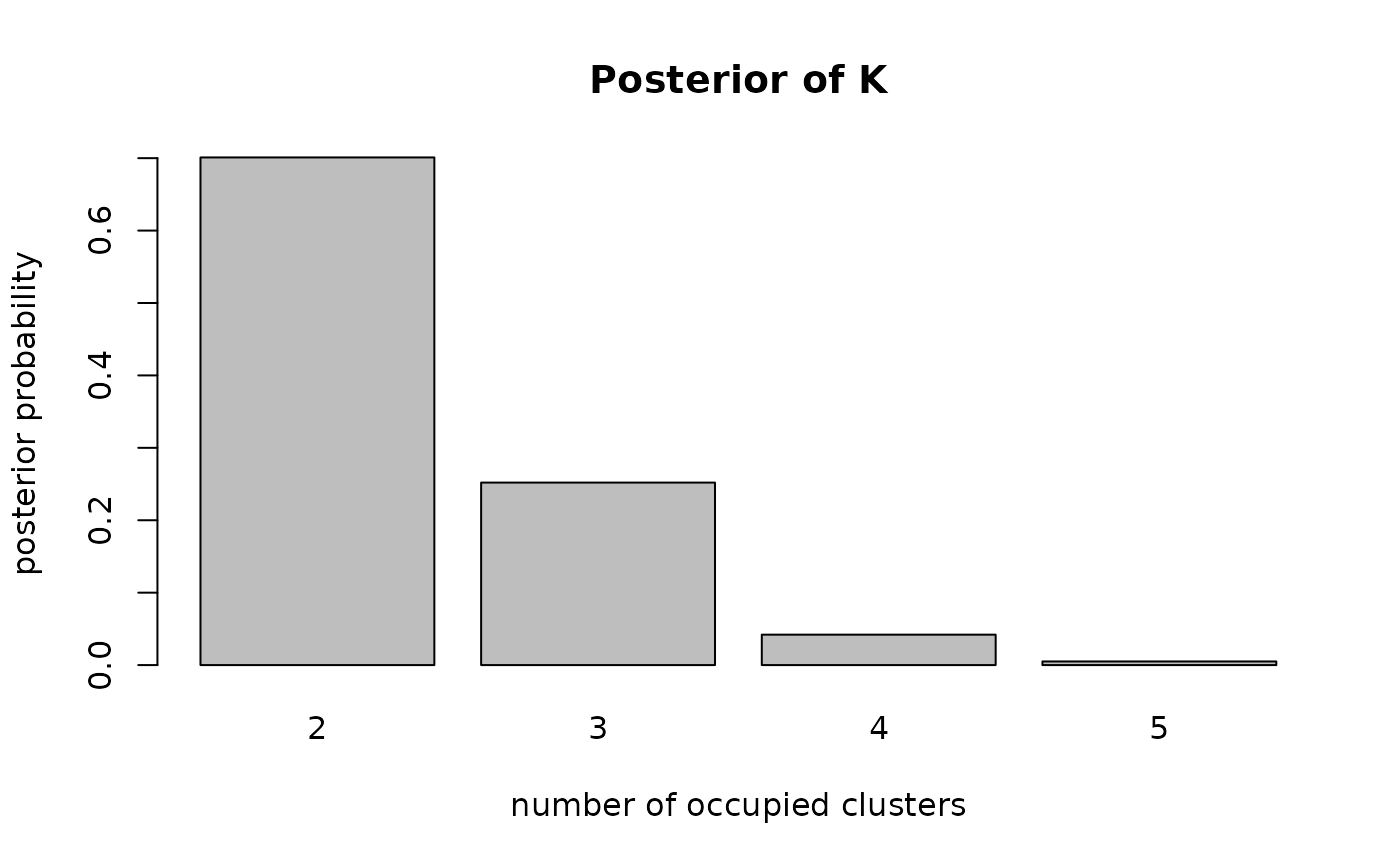
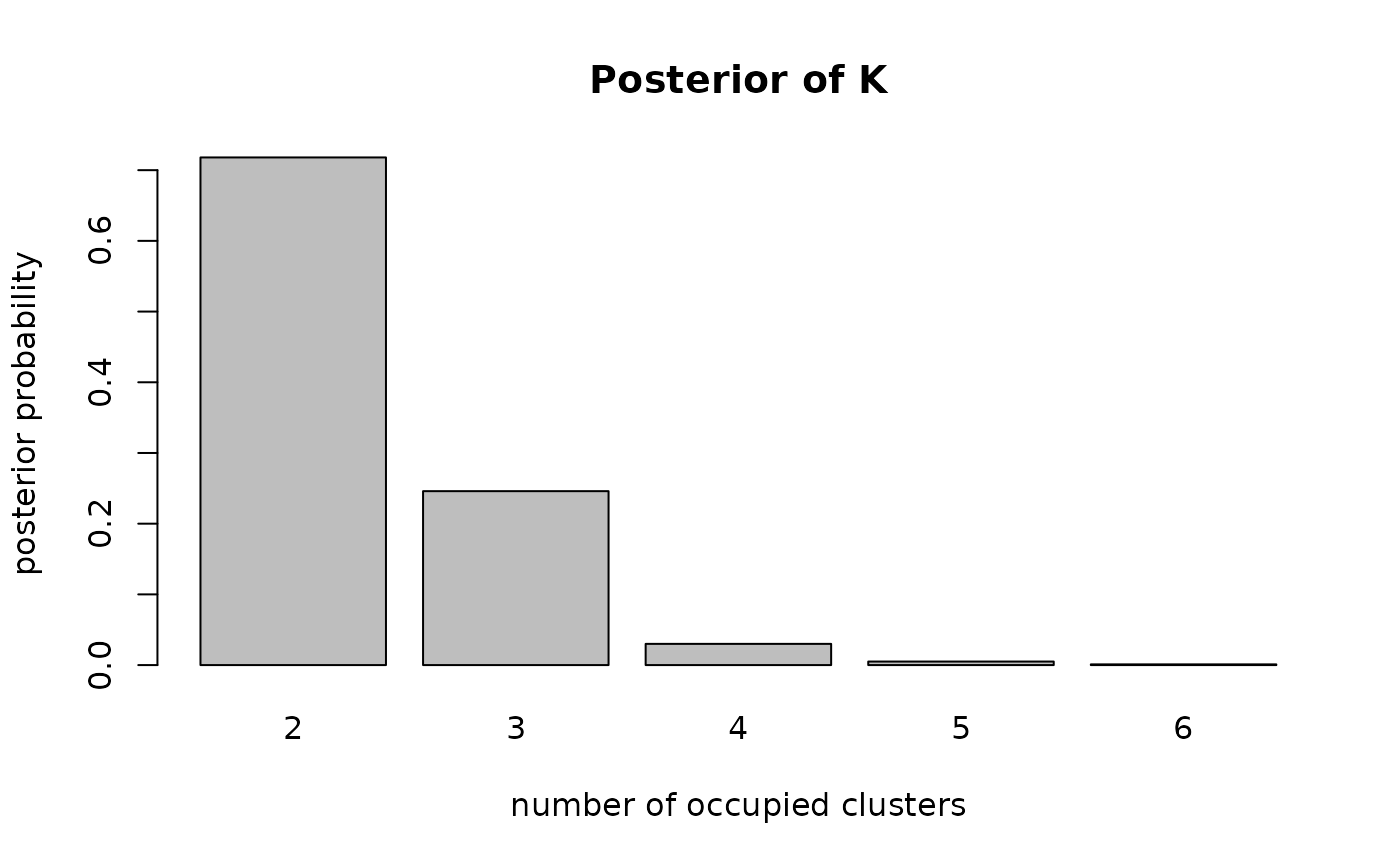
Deploying to gh-pages from @ madsyair/nimix@67aed07cae1a514a44a55a6be412d28ad277dd01 🚀

diff --git a/reference/nimixClust.html b/reference/nimixClust.html
@@ -73,7 +73,7 @@ multivariate Gaussian) is chosen from the shape of <code>data</code> and the
 <span>  mcmcControl <span class="op">=</span> <span class="fu"><a href="https://rdrr.io/r/base/list.html" class="external-link">list</a></span><span class="op">(</span><span class="op">)</span>,</span>
 <span>  initMethod <span class="op">=</span> <span class="fu"><a href="https://rdrr.io/r/base/c.html" class="external-link">c</a></span><span class="op">(</span><span class="st">"kmeans"</span>, <span class="st">"single"</span><span class="op">)</span>,</span>
 <span>  seed <span class="op">=</span> <span class="fl">1L</span>,</span>
-<span>  verbose <span class="op">=</span> <span class="cn">TRUE</span></span>
+<span>  verbose <span class="op">=</span> <span class="cn">FALSE</span></span>
 <span><span class="op">)</span></span></code></pre></div>
     </div>
 
@@ -96,8 +96,11 @@ matrix is treated as univariate.</p></dd>
 <dt id="arg-k-max">K_max<a class="anchor" aria-label="anchor" href="#arg-k-max"></a></dt>
 <dd><p>Integer truncation level for the Dirichlet Process Mixture
 (<code>method = "dpm"</code>); the number of components is estimated up to this
-bound. A data-aware default of <code>min(10, floor(n / 5))</code> is used when
-missing. Must not be given for <code>method = "fixedk"</code> (use <code>K</code>).</p></dd>
+bound. Because the dCRP sampler errors if the occupied-cluster count ever
+needs to exceed it, <code>K_max</code> should sit comfortably above the expected
+number of clusters; a generous data-aware default (giving headroom above
+that count) is used when missing. Must not be given for
+<code>method = "fixedk"</code> (use <code>K</code>).</p></dd>
 
 
 <dt id="arg-distribution">distribution<a class="anchor" aria-label="anchor" href="#arg-distribution"></a></dt>
@@ -136,8 +139,11 @@ mixture, <code>dirichletConc</code> for the Dirichlet weight prior.</p></dd>
 
 
 <dt id="arg-verbose">verbose<a class="anchor" aria-label="anchor" href="#arg-verbose"></a></dt>
-<dd><p>Logical; print NIMBLE configuration and progress. When
-<code>FALSE</code>, NIMBLE's compilation notes are silenced.</p></dd>
+<dd><p>Logical; print NIMBLE's configuration and progress output.
+Defaults to <code>FALSE</code> (quiet): NIMBLE's compilation notes and the benign
+dCRP truncation note are silenced, while nimix's own diagnostics (e.g. a
+censored-posterior warning) and any error still surface. Set <code>TRUE</code> to
+see NIMBLE's configuration and a progress bar.</p></dd>
 
 </dl></div>
     <div class="section level2">
@@ -171,19 +177,19 @@ mixture models. <em>JCGS</em>, 9(2), 249–265.
 <span class="r-msg co"><span class="r-pr">#&gt;</span> Relabelling MCMC output before summarising (label switching)...</span>
 <span class="r-out co"><span class="r-pr">#&gt;</span> nimix mixture summary (engine: dpm, distribution: normal-uv)</span>
 <span class="r-out co"><span class="r-pr">#&gt;</span> Observations: 200 (dimension d = 1)</span>
-<span class="r-out co"><span class="r-pr">#&gt;</span> Relabelling: ECR-ITERATIVE-1 conditioned on modal K = 2 (701 draws)</span>
+<span class="r-out co"><span class="r-pr">#&gt;</span> Relabelling: ECR-ITERATIVE-1 conditioned on modal K = 2 (718 draws)</span>
 <span class="r-out co"><span class="r-pr">#&gt;</span> </span>
 <span class="r-out co"><span class="r-pr">#&gt;</span> Posterior of number of occupied clusters:</span>
 <span class="r-out co"><span class="r-pr">#&gt;</span> </span>
-<span class="r-out co"><span class="r-pr">#&gt;</span>     2     3     4     5 </span>
-<span class="r-out co"><span class="r-pr">#&gt;</span> 0.701 0.252 0.042 0.005 </span>
+<span class="r-out co"><span class="r-pr">#&gt;</span>     2     3     4     5     6 </span>
+<span class="r-out co"><span class="r-pr">#&gt;</span> 0.718 0.246 0.030 0.005 0.001 </span>
 <span class="r-out co"><span class="r-pr">#&gt;</span> </span>
 <span class="r-out co"><span class="r-pr">#&gt;</span> Relabelled component estimates (posterior mean; CIs for univariate):</span>
 <span class="r-out co"><span class="r-pr">#&gt;</span>  component weight mu_mean mu_lwr mu_upr s2_mean s2_lwr s2_upr</span>
-<span class="r-out co"><span class="r-pr">#&gt;</span>          1  0.499   -2.89  -3.09  -2.69    1.16  0.886   1.50</span>
-<span class="r-out co"><span class="r-pr">#&gt;</span>          2  0.501    2.95   2.73   3.17    1.27  0.939   1.74</span>
+<span class="r-out co"><span class="r-pr">#&gt;</span>          1  0.501    2.94   2.73   3.17    1.28  0.986    1.7</span>
+<span class="r-out co"><span class="r-pr">#&gt;</span>          2  0.499   -2.89  -3.10  -2.68    1.15  0.867    1.5</span>
 <span class="r-out co"><span class="r-pr">#&gt;</span> </span>
-<span class="r-out co"><span class="r-pr">#&gt;</span> Mixing diagnostic (single chain): ESS(alpha) = 679, ESS(#clusters) = 303</span>
+<span class="r-out co"><span class="r-pr">#&gt;</span> Mixing diagnostic (single chain): ESS(alpha) = 668, ESS(#clusters) = 432</span>
 <span class="r-out co"><span class="r-pr">#&gt;</span> Note: cross-chain Rhat requires multiple chains (planned v0.9.0).</span>
 <span class="r-in"><span><span class="fu"><a href="https://rdrr.io/r/graphics/plot.default.html" class="external-link">plot</a></span><span class="op">(</span><span class="va">fit</span>, type <span class="op">=</span> <span class="st">"K"</span><span class="op">)</span></span></span>
 <span class="r-plt img"><img src="nimixClust-1.png" alt="" width="700" height="433"></span>
@@ -222,20 +228,20 @@ mixture models. <em>JCGS</em>, 9(2), 249–265.
 <span class="r-msg co"><span class="r-pr">#&gt;</span> Relabelling MCMC output before summarising (label switching)...</span>
 <span class="r-out co"><span class="r-pr">#&gt;</span> nimix mixture summary (engine: dpm, distribution: normal-mv)</span>
 <span class="r-out co"><span class="r-pr">#&gt;</span> Observations: 200 (dimension d = 2)</span>
-<span class="r-out co"><span class="r-pr">#&gt;</span> Relabelling: ECR-ITERATIVE-1 conditioned on modal K = 3 (345 draws)</span>
+<span class="r-out co"><span class="r-pr">#&gt;</span> Relabelling: ECR-ITERATIVE-1 conditioned on modal K = 3 (325 draws)</span>
 <span class="r-out co"><span class="r-pr">#&gt;</span> </span>
 <span class="r-out co"><span class="r-pr">#&gt;</span> Posterior of number of occupied clusters:</span>
 <span class="r-out co"><span class="r-pr">#&gt;</span> </span>
 <span class="r-out co"><span class="r-pr">#&gt;</span>     2     3     4     5     6     7     8 </span>
-<span class="r-out co"><span class="r-pr">#&gt;</span> 0.086 0.345 0.283 0.180 0.068 0.034 0.004 </span>
+<span class="r-out co"><span class="r-pr">#&gt;</span> 0.215 0.325 0.243 0.125 0.063 0.023 0.006 </span>
 <span class="r-out co"><span class="r-pr">#&gt;</span> </span>
 <span class="r-out co"><span class="r-pr">#&gt;</span> Relabelled component estimates (posterior mean; CIs for univariate):</span>
-<span class="r-out co"><span class="r-pr">#&gt;</span>  component weight   mu_1    mu_2 var_1 var_2</span>
-<span class="r-out co"><span class="r-pr">#&gt;</span>          1  0.430  2.051  2.0914  1.05 0.882</span>
-<span class="r-out co"><span class="r-pr">#&gt;</span>          2  0.466 -2.272 -2.1278  1.01 1.068</span>
-<span class="r-out co"><span class="r-pr">#&gt;</span>          3  0.104  0.603  0.0246  1.79 1.380</span>
+<span class="r-out co"><span class="r-pr">#&gt;</span>  component weight   mu_1   mu_2 var_1 var_2</span>
+<span class="r-out co"><span class="r-pr">#&gt;</span>          1 0.0544  0.476 -0.169  2.15 1.557</span>
+<span class="r-out co"><span class="r-pr">#&gt;</span>          2 0.4783 -2.267 -2.113  1.02 1.087</span>
+<span class="r-out co"><span class="r-pr">#&gt;</span>          3 0.4673  2.109  2.005  1.07 0.942</span>
 <span class="r-out co"><span class="r-pr">#&gt;</span> </span>
-<span class="r-out co"><span class="r-pr">#&gt;</span> Mixing diagnostic (single chain): ESS(alpha) = 250, ESS(#clusters) = 81</span>
+<span class="r-out co"><span class="r-pr">#&gt;</span> Mixing diagnostic (single chain): ESS(alpha) = 199, ESS(#clusters) = 64</span>
 <span class="r-out co"><span class="r-pr">#&gt;</span> Note: cross-chain Rhat requires multiple chains (planned v0.9.0).</span>
 <span class="r-in"><span><span class="fu"><a href="https://rdrr.io/r/graphics/plot.default.html" class="external-link">plot</a></span><span class="op">(</span><span class="va">fitMv</span>, type <span class="op">=</span> <span class="st">"cluster"</span><span class="op">)</span></span></span>
 <span class="r-plt img"><img src="nimixClust-2.png" alt="" width="700" height="433"></span>
@@ -247,7 +253,7 @@ mixture models. <em>JCGS</em>, 9(2), 249–265.
 
 
     <footer><div class="pkgdown-footer-left">
-  <p>Developed by Achmad Syahrul Choir.</p>
+  <p>Developed by nimix Developers.</p>
 </div>
 
 <div class="pkgdown-footer-right">

diff --git a/reference/nimixReg.html b/reference/nimixReg.html
@@ -72,7 +72,7 @@ mixing weights do not depend on the covariates.</p>
 <span>  mcmcControl <span class="op">=</span> <span class="fu"><a href="https://rdrr.io/r/base/list.html" class="external-link">list</a></span><span class="op">(</span><span class="op">)</span>,</span>
 <span>  initMethod <span class="op">=</span> <span class="fu"><a href="https://rdrr.io/r/base/c.html" class="external-link">c</a></span><span class="op">(</span><span class="st">"kmeans"</span>, <span class="st">"single"</span><span class="op">)</span>,</span>
 <span>  seed <span class="op">=</span> <span class="fl">1L</span>,</span>
-<span>  verbose <span class="op">=</span> <span class="cn">TRUE</span></span>
+<span>  verbose <span class="op">=</span> <span class="cn">FALSE</span></span>
 <span><span class="op">)</span></span></code></pre></div>
     </div>
 
@@ -94,8 +94,10 @@ mixing weights do not depend on the covariates.</p>
 
 
 <dt id="arg-k-max">K_max<a class="anchor" aria-label="anchor" href="#arg-k-max"></a></dt>
-<dd><p>Integer truncation level for the DPM (<code>method = "dpm"</code>); a
-data-aware default of <code>min(10, floor(n / 5))</code> is used when missing.</p></dd>
+<dd><p>Integer truncation level for the DPM (<code>method = "dpm"</code>);
+it must sit comfortably above the expected number of clusters, since the
+dCRP sampler errors if the occupied-cluster count ever needs to exceed it.
+A generous data-aware default (with headroom) is used when missing.</p></dd>
 
 
 <dt id="arg-distribution">distribution<a class="anchor" aria-label="anchor" href="#arg-distribution"></a></dt>
@@ -137,8 +139,11 @@ opt-in and currently errors.</p></dd>
 
 
 <dt id="arg-verbose">verbose<a class="anchor" aria-label="anchor" href="#arg-verbose"></a></dt>
-<dd><p>Logical; print NIMBLE configuration and progress. When
-<code>FALSE</code>, NIMBLE's compilation notes are silenced.</p></dd>
+<dd><p>Logical; print NIMBLE's configuration and progress output.
+Defaults to <code>FALSE</code> (quiet): NIMBLE's compilation notes and the benign
+dCRP truncation note are silenced, while nimix's own diagnostics (e.g. a
+censored-posterior warning) and any error still surface. Set <code>TRUE</code> to
+see NIMBLE's configuration and a progress bar.</p></dd>
 
 </dl></div>
     <div class="section level2">
@@ -173,25 +178,25 @@ regressions. <em>JCGS</em>, 12(1), 55–79. <a href="https://doi.org/10.1198/106
 <span class="r-msg co"><span class="r-pr">#&gt;</span> Relabelling MCMC output before summarising (label switching)...</span>
 <span class="r-out co"><span class="r-pr">#&gt;</span> nimix mixture summary (engine: dpm, distribution: normal-reg)</span>
 <span class="r-out co"><span class="r-pr">#&gt;</span> Observations: 200 (dimension d = 1)</span>
-<span class="r-out co"><span class="r-pr">#&gt;</span> Relabelling: ECR-ITERATIVE-1 conditioned on modal K = 2 (846 draws)</span>
+<span class="r-out co"><span class="r-pr">#&gt;</span> Relabelling: ECR-ITERATIVE-1 conditioned on modal K = 2 (831 draws)</span>
 <span class="r-out co"><span class="r-pr">#&gt;</span> </span>
 <span class="r-out co"><span class="r-pr">#&gt;</span> Posterior of number of occupied clusters:</span>
 <span class="r-out co"><span class="r-pr">#&gt;</span> </span>
 <span class="r-out co"><span class="r-pr">#&gt;</span>     2     3     4     5 </span>
-<span class="r-out co"><span class="r-pr">#&gt;</span> 0.846 0.137 0.015 0.002 </span>
+<span class="r-out co"><span class="r-pr">#&gt;</span> 0.831 0.144 0.024 0.001 </span>
 <span class="r-out co"><span class="r-pr">#&gt;</span> </span>
 <span class="r-out co"><span class="r-pr">#&gt;</span> Relabelled component estimates (posterior mean; CIs for univariate):</span>
 <span class="r-out co"><span class="r-pr">#&gt;</span>  component weight (Intercept)     x s2_mean s2_lwr s2_upr</span>
-<span class="r-out co"><span class="r-pr">#&gt;</span>          1  0.499    -0.07315  1.97    1.01  0.773   1.31</span>
-<span class="r-out co"><span class="r-pr">#&gt;</span>          2  0.501     0.00391 -1.97    1.08  0.825   1.39</span>
+<span class="r-out co"><span class="r-pr">#&gt;</span>          1  0.501    -0.00271 -1.96    1.09  0.793   1.42</span>
+<span class="r-out co"><span class="r-pr">#&gt;</span>          2  0.499    -0.07628  1.97    1.01  0.753   1.36</span>
 <span class="r-out co"><span class="r-pr">#&gt;</span> </span>
-<span class="r-out co"><span class="r-pr">#&gt;</span> Mixing diagnostic (single chain): ESS(alpha) = 736, ESS(#clusters) = 398</span>
+<span class="r-out co"><span class="r-pr">#&gt;</span> Mixing diagnostic (single chain): ESS(alpha) = 806, ESS(#clusters) = 450</span>
 <span class="r-out co"><span class="r-pr">#&gt;</span> Note: cross-chain Rhat requires multiple chains (planned v0.9.0).</span>
 <span class="r-in"><span><span class="fu"><a href="https://rdrr.io/r/stats/predict.html" class="external-link">predict</a></span><span class="op">(</span><span class="va">fit</span>, newdata <span class="op">=</span> <span class="fu"><a href="https://rdrr.io/r/base/data.frame.html" class="external-link">data.frame</a></span><span class="op">(</span>x <span class="op">=</span> <span class="fu"><a href="https://rdrr.io/r/base/c.html" class="external-link">c</a></span><span class="op">(</span><span class="op">-</span><span class="fl">2</span>, <span class="fl">0</span>, <span class="fl">2</span><span class="op">)</span><span class="op">)</span><span class="op">)</span></span></span>
 <span class="r-out co"><span class="r-pr">#&gt;</span>    x     .fitted</span>
-<span class="r-out co"><span class="r-pr">#&gt;</span> 1 -2 -0.01956009</span>
-<span class="r-out co"><span class="r-pr">#&gt;</span> 2  0 -0.03470138</span>
-<span class="r-out co"><span class="r-pr">#&gt;</span> 3  2 -0.04984267</span>
+<span class="r-out co"><span class="r-pr">#&gt;</span> 1 -2 -0.05039836</span>
+<span class="r-out co"><span class="r-pr">#&gt;</span> 2  0 -0.03864911</span>
+<span class="r-out co"><span class="r-pr">#&gt;</span> 3  2 -0.02689987</span>
 <span class="r-in"><span></span></span>
 <span class="r-in"><span><span class="co">## fixed number of regimes (finite mixture)</span></span></span>
 <span class="r-in"><span><span class="va">fit2</span> <span class="op">&lt;-</span> <span class="fu">nimixReg</span><span class="op">(</span><span class="va">y</span> <span class="op">~</span> <span class="va">x</span>, <span class="va">df</span>, K <span class="op">=</span> <span class="fl">2</span>, method <span class="op">=</span> <span class="st">"fixedk"</span>,</span></span>
@@ -224,7 +229,7 @@ regressions. <em>JCGS</em>, 12(1), 55–79. <a href="https://doi.org/10.1198/106
 
 
     <footer><div class="pkgdown-footer-left">
-  <p>Developed by Achmad Syahrul Choir.</p>
+  <p>Developed by nimix Developers.</p>
 </div>
 
 <div class="pkgdown-footer-right">

diff --git a/news/index.html b/news/index.html
@@ -52,6 +52,17 @@
 <h3 id="infrastructure-0-4-3">Infrastructure<a class="anchor" aria-label="anchor" href="#infrastructure-0-4-3"></a></h3>
 <ul><li>Added GitHub Actions workflows for <code>R CMD check</code> (multi-OS) and a <code>pkgdown</code> documentation site, a <code>_pkgdown.yml</code> reference layout, and the corresponding <code>.Rbuildignore</code> entries.</li>
 </ul></div>
+<div class="section level3">
+<h3 id="changed-0-4-3">Changed<a class="anchor" aria-label="anchor" href="#changed-0-4-3"></a></h3>
+<ul><li>
+<p><strong>DPM truncation handling.</strong> <code>K_max</code> is the dCRP truncation level: the sampler errors if the occupied-cluster count ever needs to exceed it. Three improvements make this robust and transparent:</p>
+<ul><li>The default <code>K_max</code> (when unspecified) now scales with <code>n</code> and carries generous headroom above the expected cluster count, instead of the old <code>min(10, floor(n / 5))</code> which could sit right at the operating point.</li>
+<li>If the sampler still exceeds the truncation, NIMBLE’s raw <em>“not a proper model”</em> error is translated into an actionable message naming <code>K_max</code> and suggesting a concrete larger value.</li>
+<li>After a DPM fit, a warning is issued when the posterior is <em>sustainedly</em> censored at the truncation (a meaningful share of iterations occupy every slot), so a too-tight <code>K_max</code> is flagged rather than silently distorting the posterior on the number of clusters.</li>
+</ul></li>
+<li><p><strong><code>verbose</code> now defaults to <code>FALSE</code></strong> in <code><a href="../reference/nimixClust.html">nimixClust()</a></code> and <code><a href="../reference/nimixReg.html">nimixReg()</a></code>, matching the documented design. Quiet mode is now <strong>selective, not a blanket warning suppressor</strong>: only NIMBLE’s known-benign configuration chatter (the <em>“number of clusters … is less than the number of potential clusters”</em> reminder and the <em>“model is not fully initialized”</em> note) is muffled. Any other warning – in particular anything that could indicate the sampler produced invalid draws – propagates to the user even when <code>verbose = FALSE</code>, as do nimix’s own diagnostics (the censored-posterior warning) and any error. Pass <code>verbose = TRUE</code> for NIMBLE’s full configuration output and a progress bar.</p></li>
+<li><p><strong>Headroom-aware cluster initialisation.</strong> The k-means / hard-E-step starts used to seed up to <code>count - 1</code> clusters (<code>count</code> = the truncation level <code>K_max</code> for the DPM), which sat right against the ceiling for a modest <code>K_max</code> and left no room for the early CRP transient (which briefly occupies more clusters than the modal K before merging). Initialisation now seeds at most <code>floor(0.8 * count)</code> clusters, guaranteeing at least <code>0.2 * K_max</code> slots of headroom above the dispersed start; the GLM-regression E-step keeps a floor of 2 so small fixed-K starts still separate. For large <code>K_max</code> the <code>ceil(sqrt(n))</code> cap still binds, so dispersed-start behaviour there is unchanged. This lowers the chance a modest explicit <code>K_max</code> breaches the truncation; the headroom default remains the primary safeguard.</p></li>
+</ul></div>
 </div>
     <div class="section level2">
 <h2 class="pkg-version" data-toc-text="0.4.2" id="nimix-042">nimix 0.4.2<a class="anchor" aria-label="anchor" href="#nimix-042"></a></h2>
@@ -264,7 +275,7 @@
 
 
     <footer><div class="pkgdown-footer-left">
-  <p>Developed by Achmad Syahrul Choir.</p>
+  <p>Developed by nimix Developers.</p>
 </div>
 
 <div class="pkgdown-footer-right">

diff --git a/authors.html b/authors.html
@@ -41,7 +41,7 @@
       <h2>Authors</h2>
 
       <ul class="list-unstyled"><li>
-          <p><strong>Achmad Syahrul Choir</strong>. Author, maintainer.
+          <p><strong>nimix Developers</strong>. Author, maintainer.
           </p>
         </li>
       </ul></div>
@@ -50,13 +50,13 @@
       <h2 id="citation">Citation</h2>
       <p><small class="dont-index">Source: <a href="https://github.com/madsyair/nimix/blob/main/DESCRIPTION" class="external-link"><code>DESCRIPTION</code></a></small></p>
 
-      <p>Choir A (2026).
+      <p>Developers n (2026).
 <em>nimix: Bayesian Mixture Clustering and Regression with NIMBLE</em>.
 R package version 0.4.3, <a href="https://github.com/madsyair/nimix" class="external-link">https://github.com/madsyair/nimix</a>.
 </p>
       <pre>@Manual{,
   title = {nimix: Bayesian Mixture Clustering and Regression with NIMBLE},
-  author = {Achmad Syahrul Choir},
+  author = {nimix Developers},
   year = {2026},
   note = {R package version 0.4.3},
   url = {https://github.com/madsyair/nimix},
@@ -68,7 +68,7 @@ R package version 0.4.3, <a href="https://github.com/madsyair/nimix" class="exte
 
 
     <footer><div class="pkgdown-footer-left">
-  <p>Developed by Achmad Syahrul Choir.</p>
+  <p>Developed by nimix Developers.</p>
 </div>
 
 <div class="pkgdown-footer-right">

diff --git a/index.html b/index.html
@@ -16,8 +16,8 @@
 <script src="deps/bootstrap-5.3.8/bootstrap.bundle.min.js"></script><link href="deps/font-awesome-6.5.2/css/all.min.css" rel="stylesheet">
 <link href="deps/font-awesome-6.5.2/css/v4-shims.min.css" rel="stylesheet">
 <script src="deps/headroom-0.11.0/headroom.min.js"></script><script src="deps/headroom-0.11.0/jQuery.headroom.min.js"></script><script src="deps/bootstrap-toc-1.0.1/bootstrap-toc.min.js"></script><script src="deps/clipboard.js-2.0.11/clipboard.min.js"></script><script src="deps/search-1.0.0/autocomplete.jquery.min.js"></script><script src="deps/search-1.0.0/fuse.min.js"></script><script src="deps/search-1.0.0/mark.min.js"></script><!-- pkgdown --><script src="pkgdown.js"></script><meta property="og:title" content="Bayesian Mixture Clustering and Regression with NIMBLE">
-<meta name="description" content="Bayesian finite and nonparametric mixture modelling built on top of the nimble package. Provides the univariate and multivariate Gaussian mixture clustering, and a Dirichlet Process Mixture of linear regressions, all using a DPM engine via the Chinese Restaurant Process (de Valpine et al. 2017 &lt;doi:10.1080/10618600.2016.1172487&gt;; Neal 2000 &lt;doi:10.1080/10618600.2000.10474879&gt;; Hurn et al. 2003 &lt;doi:10.1198/1061860031329&gt;). Post-hoc label switching correction wraps the label.switching package (Papastamoulis 2016 &lt;doi:10.18637/jss.v069.c01&gt;). A reversible jump MCMC engine is planned for a later release.">
-<meta property="og:description" content="Bayesian finite and nonparametric mixture modelling built on top of the nimble package. Provides the univariate and multivariate Gaussian mixture clustering, and a Dirichlet Process Mixture of linear regressions, all using a DPM engine via the Chinese Restaurant Process (de Valpine et al. 2017 &lt;doi:10.1080/10618600.2016.1172487&gt;; Neal 2000 &lt;doi:10.1080/10618600.2000.10474879&gt;; Hurn et al. 2003 &lt;doi:10.1198/1061860031329&gt;). Post-hoc label switching correction wraps the label.switching package (Papastamoulis 2016 &lt;doi:10.18637/jss.v069.c01&gt;). A reversible jump MCMC engine is planned for a later release.">
+<meta name="description" content="Bayesian finite and nonparametric mixture modelling built on top of the nimble package. This 0.3.0 release provides the S4 architecture foundation, univariate and multivariate Gaussian mixture clustering, and a Dirichlet Process Mixture of linear regressions, all using a DPM engine via the Chinese Restaurant Process (de Valpine et al. 2017 &lt;doi:10.1080/10618600.2016.1172487&gt;; Neal 2000 &lt;doi:10.1080/10618600.2000.10474879&gt;; Zhang et al. 2004 &lt;doi:10.1023/B:STCO.0000039481.32735.0c&gt;; Hurn et al. 2003 &lt;doi:10.1198/1061860031329&gt;). Post-hoc label switching correction wraps the label.switching package (Papastamoulis 2016 &lt;doi:10.18637/jss.v069.c01&gt;). A reversible jump MCMC engine is planned for a later release.">
+<meta property="og:description" content="Bayesian finite and nonparametric mixture modelling built on top of the nimble package. This 0.3.0 release provides the S4 architecture foundation, univariate and multivariate Gaussian mixture clustering, and a Dirichlet Process Mixture of linear regressions, all using a DPM engine via the Chinese Restaurant Process (de Valpine et al. 2017 &lt;doi:10.1080/10618600.2016.1172487&gt;; Neal 2000 &lt;doi:10.1080/10618600.2000.10474879&gt;; Zhang et al. 2004 &lt;doi:10.1023/B:STCO.0000039481.32735.0c&gt;; Hurn et al. 2003 &lt;doi:10.1198/1061860031329&gt;). Post-hoc label switching correction wraps the label.switching package (Papastamoulis 2016 &lt;doi:10.18637/jss.v069.c01&gt;). A reversible jump MCMC engine is planned for a later release.">
 <meta property="og:image" content="https://madsyair.github.io/nimix/logo.png">
 </head>
 <body>
@@ -163,7 +163,7 @@
 <div class="developers">
 <h2 data-toc-skip>Developers</h2>
 <ul class="list-unstyled">
-<li>Achmad Syahrul Choir <br><small class="roles"> Author, maintainer </small>   </li>
+<li>nimix Developers <br><small class="roles"> Author, maintainer </small>   </li>
 </ul>
 </div>
 
@@ -181,7 +181,7 @@
 
 
     <footer><div class="pkgdown-footer-left">
-  <p>Developed by Achmad Syahrul Choir.</p>
+  <p>Developed by nimix Developers.</p>
 </div>
 
 <div class="pkgdown-footer-right">

diff --git a/404.html b/404.html
@@ -71,7 +71,7 @@ Content not found. Please use links in the navbar.
 
 
     <footer><div class="pkgdown-footer-left">
-  <p>Developed by Achmad Syahrul Choir.</p>
+  <p>Developed by nimix Developers.</p>
 </div>
 
 <div class="pkgdown-footer-right">

diff --git a/articles/index.html b/articles/index.html
@@ -54,7 +54,7 @@
 
 
     <footer><div class="pkgdown-footer-left">
-  <p>Developed by Achmad Syahrul Choir.</p>
+  <p>Developed by nimix Developers.</p>
 </div>
 
 <div class="pkgdown-footer-right">

diff --git a/articles/mixClust-multivariate.html b/articles/mixClust-multivariate.html
@@ -197,7 +197,7 @@ Computing</em> 16, 57–68.</li>
 
 
     <footer><div class="pkgdown-footer-left">
-  <p>Developed by Achmad Syahrul Choir.</p>
+  <p>Developed by nimix Developers.</p>
 </div>
 
 <div class="pkgdown-footer-right">

diff --git a/articles/mixClust-univariate.html b/articles/mixClust-univariate.html
@@ -160,7 +160,7 @@ so the data inform the clustering granularity rather than a fixed value
 
 
     <footer><div class="pkgdown-footer-left">
-  <p>Developed by Achmad Syahrul Choir.</p>
+  <p>Developed by nimix Developers.</p>
 </div>
 
 <div class="pkgdown-footer-right">

diff --git a/articles/mixReg.html b/articles/mixReg.html
@@ -165,7 +165,7 @@ draws.</li>
 
 
     <footer><div class="pkgdown-footer-left">
-  <p>Developed by Achmad Syahrul Choir.</p>
+  <p>Developed by nimix Developers.</p>
 </div>
 
 <div class="pkgdown-footer-right">

diff --git a/articles/normal-gamma-vs-studentt.html b/articles/normal-gamma-vs-studentt.html
@@ -211,7 +211,7 @@ quantities weakly identified – a property of the model, not a bug.</p>
 
 
     <footer><div class="pkgdown-footer-left">
-  <p>Developed by Achmad Syahrul Choir.</p>
+  <p>Developed by nimix Developers.</p>
 </div>
 
 <div class="pkgdown-footer-right">

diff --git a/reference/BinomialRegSpec-class.html b/reference/BinomialRegSpec-class.html
@@ -62,7 +62,7 @@
 
 
     <footer><div class="pkgdown-footer-left">
-  <p>Developed by Achmad Syahrul Choir.</p>
+  <p>Developed by nimix Developers.</p>
 </div>
 
 <div class="pkgdown-footer-right">